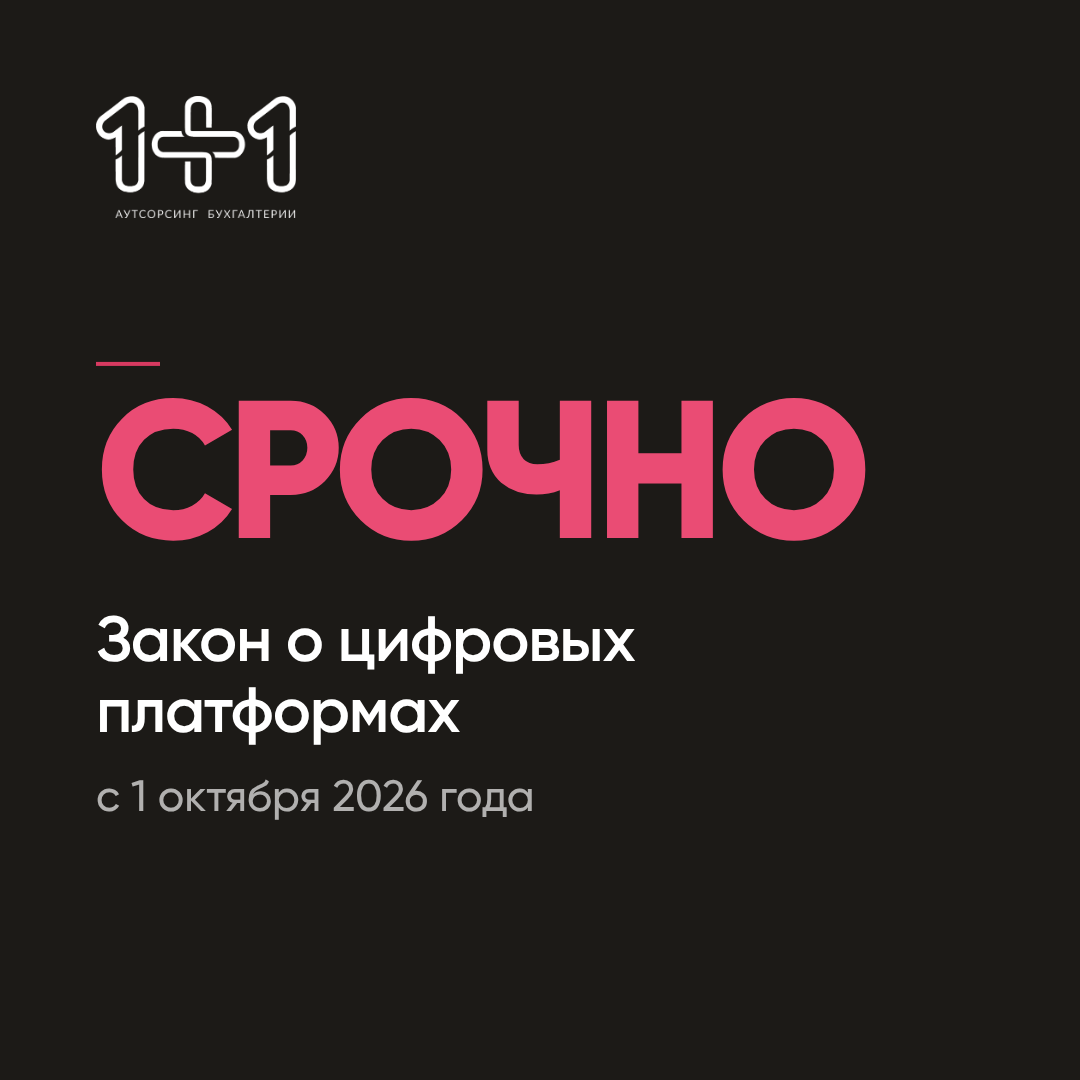
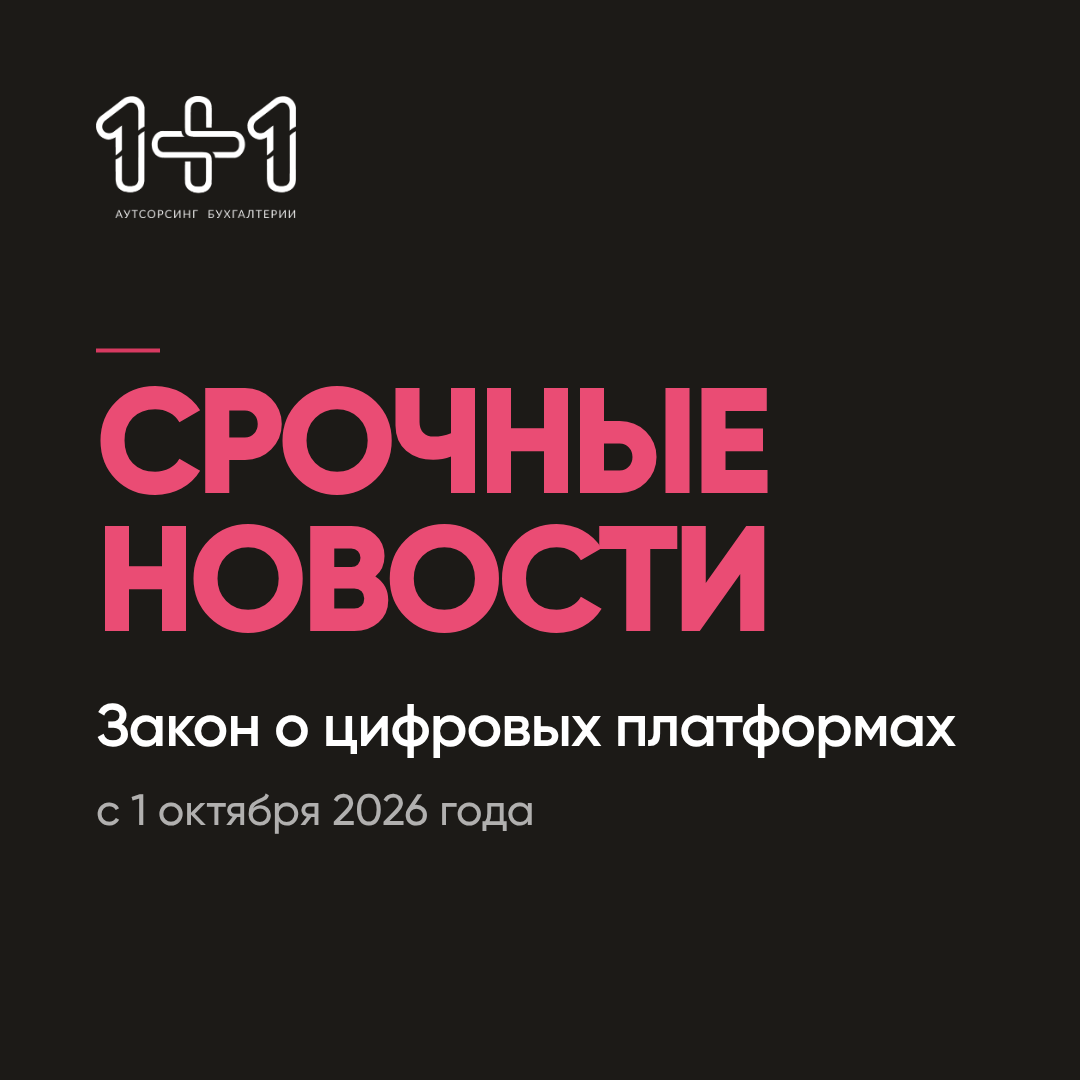
Urgent news options: label 'Срочные новости'
Claude-Session: https://claude.ai/code/session_01VZ7Hrkur6jxoGp5f6QSiLJ

Changed region(s): [[0.0917, 0.3056, 0.8861, 0.7639]]

diff --git a/specimens/work/urgent-b.html b/specimens/work/urgent-b.html
@@ -1,10 +1,10 @@
 <!doctype html><html lang="ru"><head><meta charset="utf-8"><title>Срочно: слово героем</title><link rel="stylesheet" href="../base.css">
 <style>.canvas{background:var(--graphite);color:#fff}
-.n{font-weight:800;font-size:196px;line-height:.9;letter-spacing:-.04em;color:var(--crimson-on-dark);text-transform:uppercase}
-.h{margin-top:36px;font-weight:600;font-size:64px;line-height:1.1;letter-spacing:-.02em}
+.n{font-weight:800;font-size:150px;line-height:.92;letter-spacing:-.04em;color:var(--crimson-on-dark);text-transform:uppercase}
+.h{margin-top:38px;font-weight:600;font-size:60px;line-height:1.1;letter-spacing:-.02em}
 .date{margin-top:24px;font-weight:500;font-size:44px;color:rgba(255,255,255,.66)}</style></head><body>
 <div class="canvas dark">
 <img class="logo" src="../../assets/logo-full-white.png" alt="">
-<div class="text-mid"><div class="dash"></div><div class="n">Срочно</div>
+<div class="text-mid"><div class="dash"></div><div class="n">Срочные<br>новости</div>
 <div class="h">Закон о цифровых платформах</div>
 <p class="date">с 1&nbsp;октября 2026&nbsp;года</p></div></div></body></html>

diff --git a/specimens/work/urgent-a.html b/specimens/work/urgent-a.html
@@ -6,6 +6,6 @@
 .date b{font-weight:700;color:#fff}</style></head><body>
 <div class="canvas dark"><div class="pattern"></div>
 <img class="logo" src="../../assets/logo-full-white.png" alt="">
-<div class="text-mid"><div class="dash"></div><div class="label">Срочно</div>
+<div class="text-mid"><div class="dash"></div><div class="label">Срочные новости</div>
 <div class="h-m">Закон о<br>цифровых<br>платформах</div>
 <p class="date">с <b>1&nbsp;октября 2026&nbsp;года</b></p></div></div></body></html>

diff --git a/specimens/work/urgent-c.html b/specimens/work/urgent-c.html
@@ -6,6 +6,6 @@
 .date b{font-weight:700;color:var(--graphite)}</style></head><body>
 <div class="canvas"><div class="bar"></div>
 <img class="logo" src="../../assets/logo-full.png" alt="">
-<div class="text-mid"><div class="dash"></div><div class="label">Срочно</div>
+<div class="text-mid"><div class="dash"></div><div class="label">Срочные новости</div>
 <div class="h-l">Закон о<br>цифровых<br>платформах</div>
 <p class="date">с <b>1&nbsp;октября 2026&nbsp;года</b></p></div></div></body></html>
